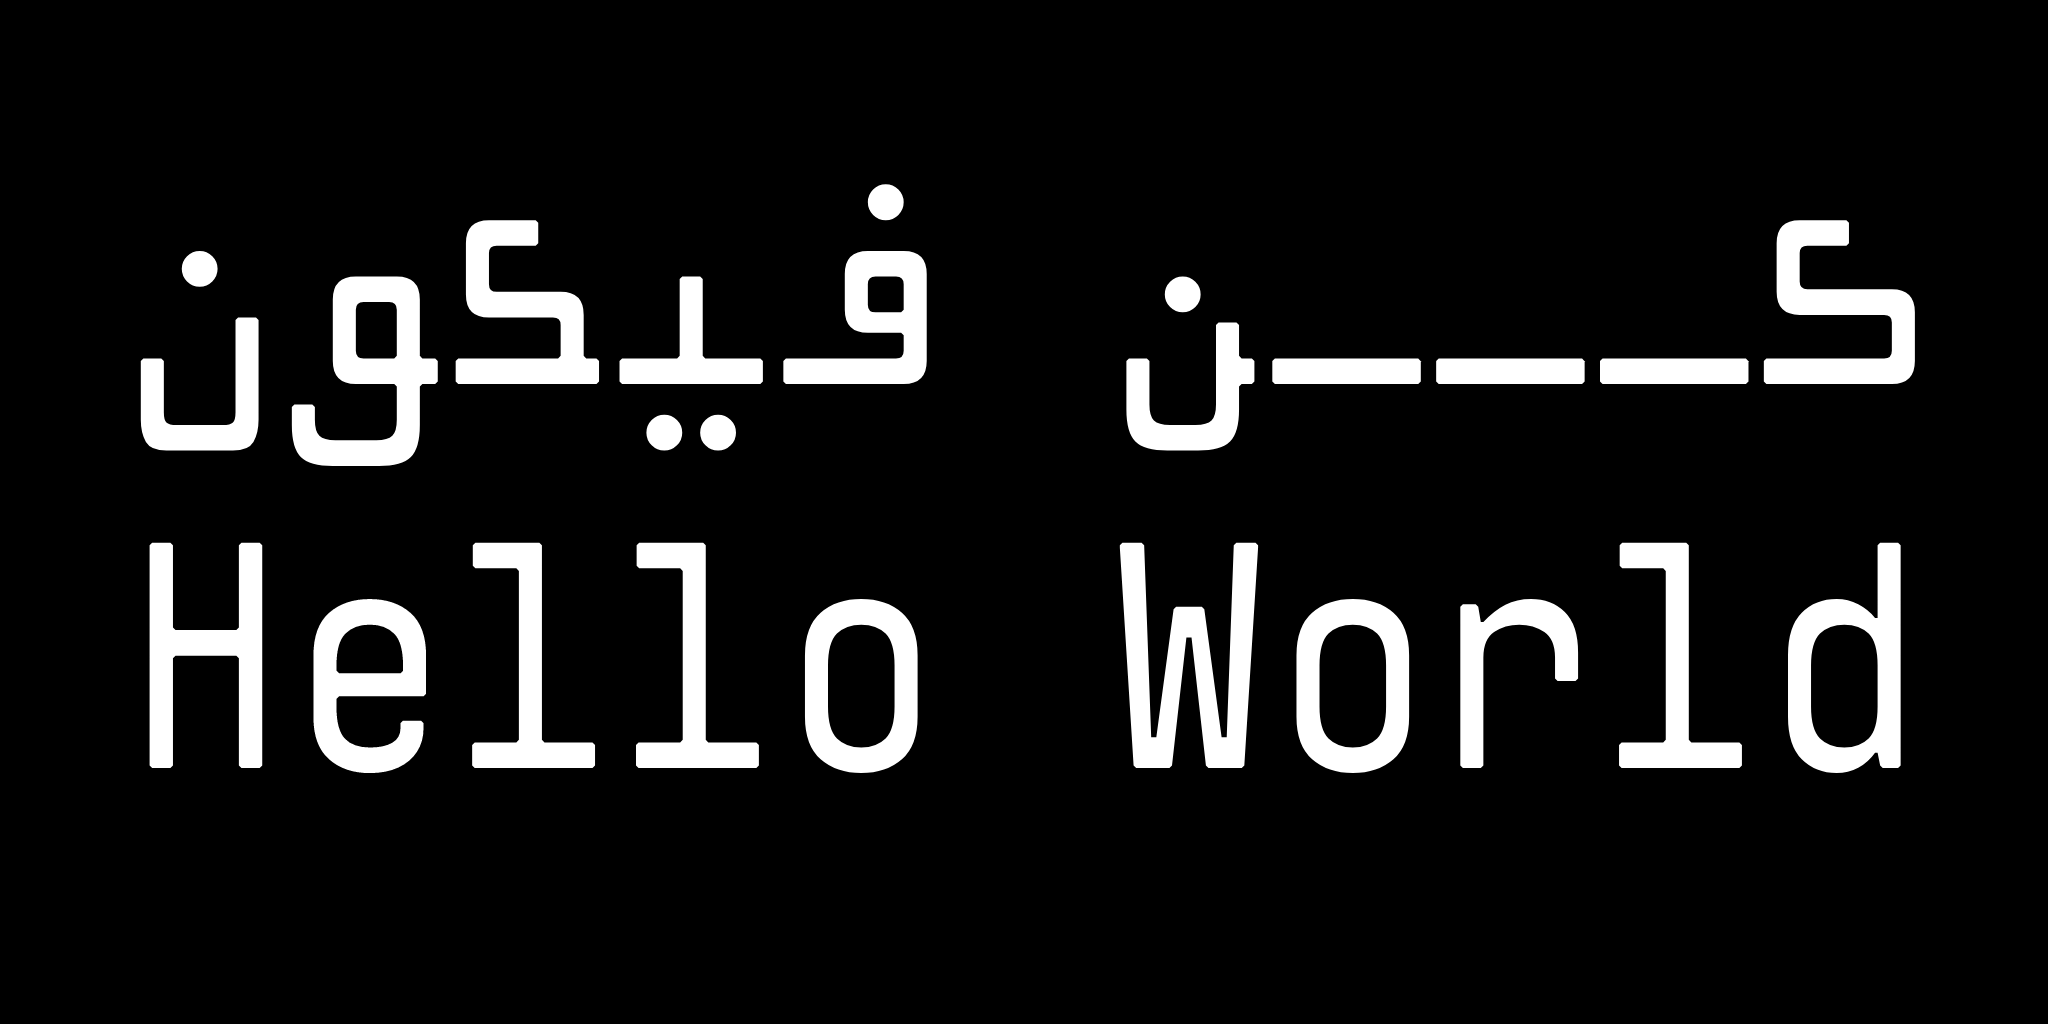
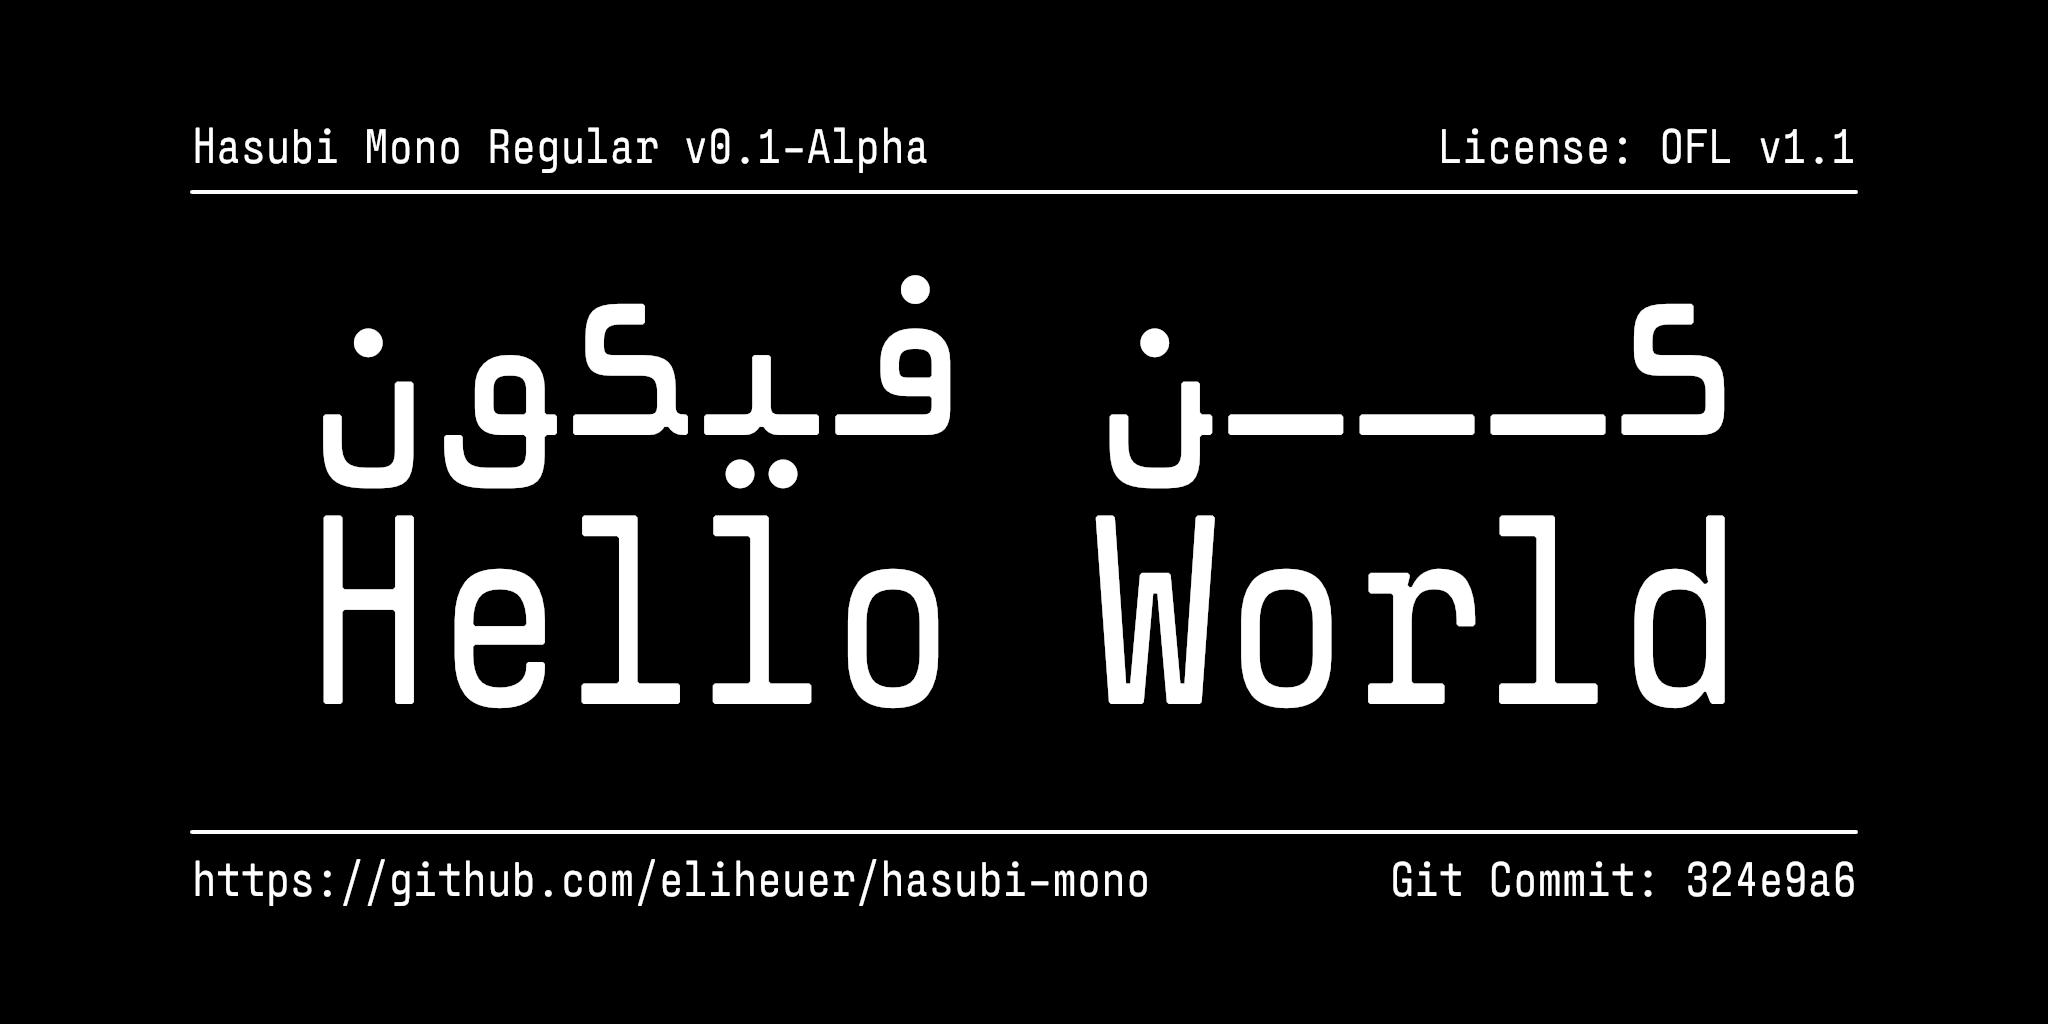
Add new drawbot specimen image

diff --git a/documentation/drawbot/wide-image-002.py b/documentation/drawbot/wide-image-002.py
@@ -91,8 +91,9 @@ def draw_main_text():
     # TODO: This should be done automatically when drawbot-skia
     # has support for textBox() and FormattedString
 
-    text("كـــن فيكون", ((MARGIN*13), MARGIN*4.5))
+    text("كـــن فيكون", ((MARGIN*13.63), MARGIN*4.6))
     text("Hello World", ((MARGIN-4)+MARGIN*1.4, MARGIN*2.5))
+    #text("Hello World", ((MARGIN-4)+MARGIN*1.4, MARGIN*4))
 
 
 # Divider lines
@@ -117,17 +118,17 @@ def draw_auxiliary_text():
     AT_HASH = "Git Commit: " + MY_HASH
     AT_HASH = AT_HASH.replace("\n", " ")
     # Draw Text
-    text(FONT_NAME, POS_TOP_LEFT, align="left")
+    text("Hasubi Mono Regular v0.1-Alpha", POS_TOP_LEFT, align="left")
     text(FONT_LICENSE, POS_TOP_RIGHT, align="right")
     text(MY_URL, POS_BOTTOM_LEFT, align="left")
     text(AT_HASH, POS_BOTTOM_RIGHT, align="right")
 
     font("documentation/drawbot/specimen-fonts/InputMonoCompressed-Regular.ttf")
     fontSize(48)
-    text(FONT_NAME, (MARGIN+64, HEIGHT - ((MARGIN * 1.275/2))), align="left")
-    text(FONT_LICENSE, (WIDTH - 64 -MARGIN, HEIGHT - ((MARGIN * 1.275)/2)), align="right")
-    text(MY_URL, (MARGIN+64, MARGIN/2), align="left")
-    text(AT_HASH, (WIDTH - 64 - MARGIN * 0.8, MARGIN/2), align="right")
+    #text("Hasubi Mono Regular v0.1-Alpha", (MARGIN+64, HEIGHT - ((MARGIN * 1.275/2))), align="left")
+    #text(FONT_LICENSE, (WIDTH - 64 -MARGIN, HEIGHT - ((MARGIN * 1.275)/2)), align="right")
+    #text(MY_URL, (MARGIN+64, MARGIN/2), align="left")
+    #text(AT_HASH, (WIDTH - 64 - MARGIN * 0.8, MARGIN/2), align="right")
 
 
 # Build and save the image
